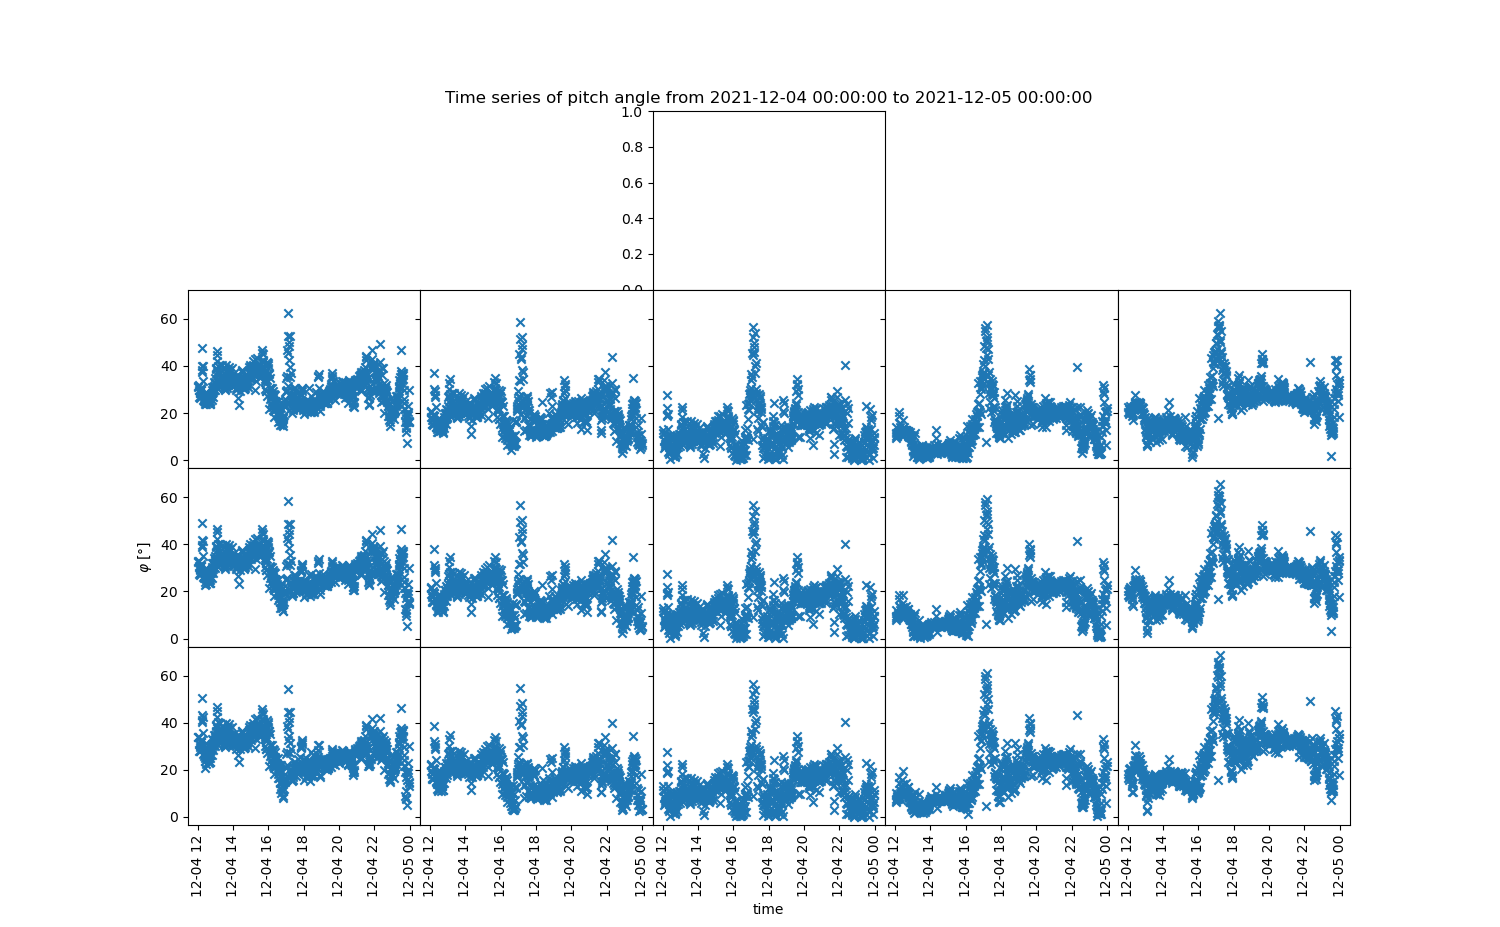
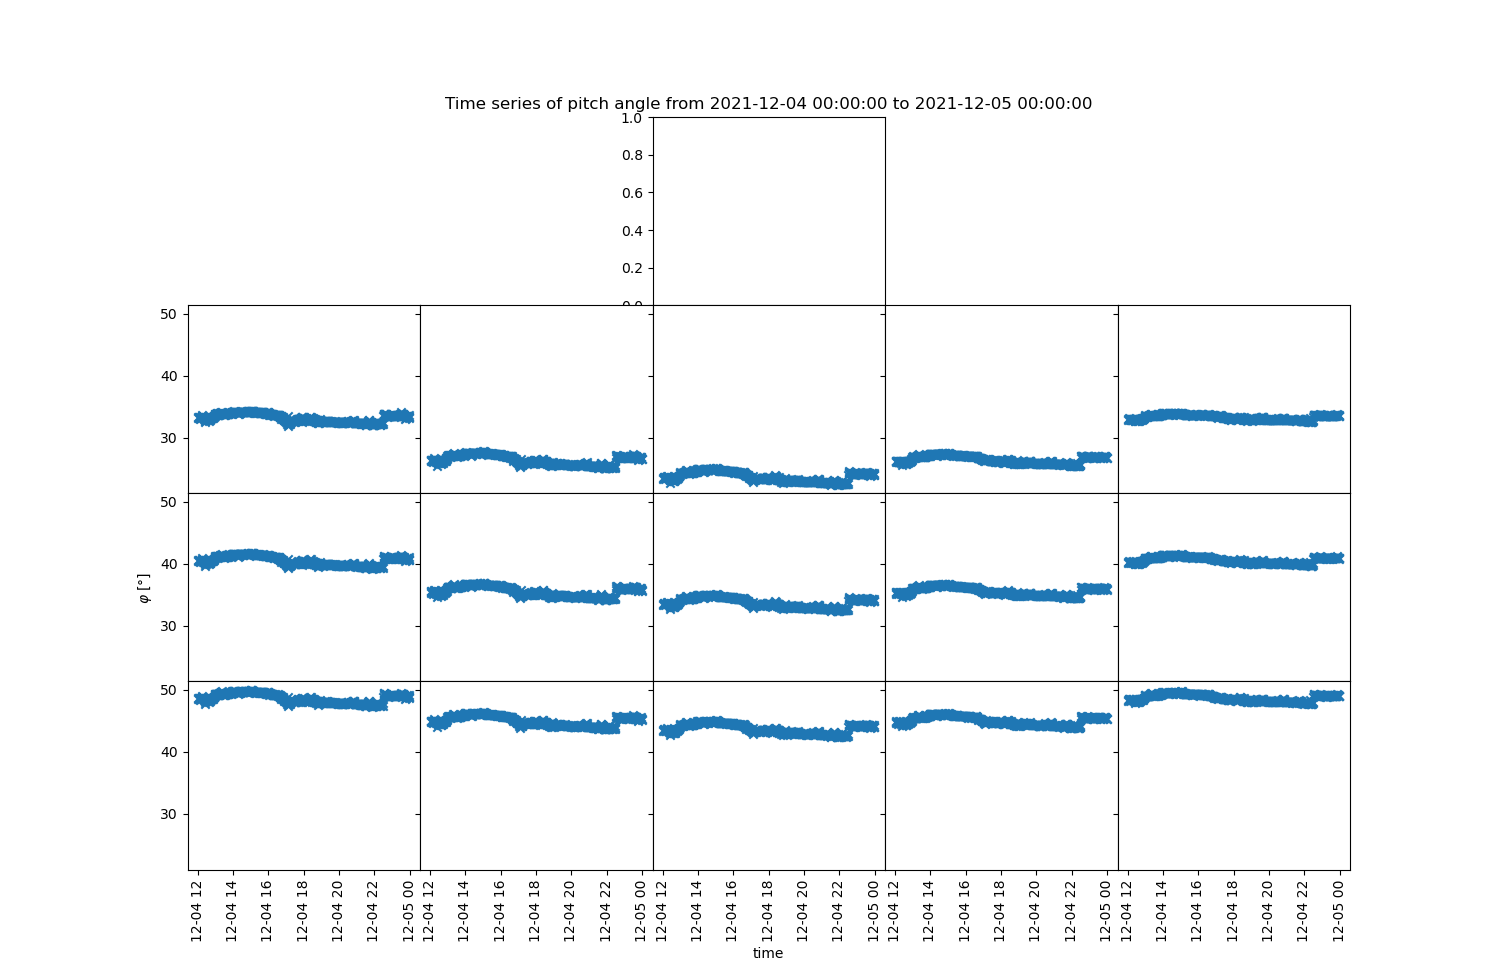
Viele neue Pitchwinkel

diff --git a/analyze_nom_II.py b/analyze_nom_II.py
@@ -8,6 +8,7 @@ import matplotlib.dates as mdates
 import load_nom_II as ld
 import plot_nom_II as pt
 import math
+import mag
 
 from PIL import Image
 import glob
@@ -31,7 +32,8 @@ hmap = mpl.cm.seismic
 class STEP:
     '''Lädt STEP-Daten zur anschließenden Analyse'''
 
-    def __init__(self,year,month,day,rpath = '/data/projects/solo/step_v0008/',lastofmonth=False):
+    def __init__(self,year,month,day,rpath = '/data/projects/solo/step_v0008/',rpath_mag = '/data/projects/solo/mag/l2_soar/rtn_1minute',lastofmonth=False):
+        '''Magnetfeld wird gleich mitgeladen.'''
         # Loading data
         if lastofmonth:
             if month!=12:
@@ -40,11 +42,20 @@ class STEP:
                 self.itime, self.idata = ld.load_nom(rpath=rpath,period=(dt.datetime(year,month,day),dt.datetime(year+1,1,1)), products=('M','A'))
         else:
             self.itime, self.idata = ld.load_nom(rpath=rpath,period=(dt.datetime(year,month,day),dt.datetime(year,month,day+1)), products=('M','A'))
-        print('Data loaded successfully.')
+        print('STEP-Data loaded successfully.')
         
         # Combining data (Main and Auxiliary Product)
         ld.combine_data(self.itime, self.idata)
-        print('Data combined successfully.')
+        print('STEP-Data combined successfully.')
+        
+        # Loading MAG-Data
+        if lastofmonth:
+            if month!=12:
+                self.mag = mag.MAGdata(path = rpath_mag, period = (dt.datetime(year,month,day),dt.datetime(year,month+1,1)))
+            else:
+                self.mag = mag.MAGdata(path = rpath_mag, period = (dt.datetime(year,month,day),dt.datetime(year+1,1,1)))
+        else:
+            self.mag = mag.MAGdata(path = rpath_mag, period=(dt.datetime(year,month,day),dt.datetime(year,month,day+1)))
 
     def cut_data(self,t0,t1):
         cdat = {}
@@ -579,7 +590,13 @@ class STEP:
             plt.close('all')
             
     def distribution_ring(self, filename, title, head, norm, period, box_list, norm_pixel, res = '1min', overflow = True, esquare = False,window_width = 5, close=False, sorted_by_energy=False):
-        '''Darstellung von means der einzelnen Pixel als GIF. Es soll die ringförmige Verteilung deutlich werden.'''
+        '''Darstellung von means der einzelnen Pixel und Pitchwinkel als GIF. Es soll die ringförmige Verteilung deutlich werden. Code basiert auf minütlichen Daten!!!'''
+        
+        # Berechnung der Energie-Mittelwerte und Mittelung der Pitchwinkel über Intervalle der Länge window_width
+        
+        # Maske, da ich nur die Magnetfelddaten innerhalb von period brauche:
+        mask = (self.mag.time >= period[0]) * (self.mag.time < period[1])
+        pw = [[] for i in range(15)]
         
         i = 0
         pixel_means = [[] for i in range(16)]     # Liste mit Listen der Mittelwerte der einzelnen Pixel. Die erste Liste enthält die Zeitstempel (jeweils Mitte der Zeitfenster)
@@ -590,11 +607,18 @@ class STEP:
         else:
             pldat = self.data_prep(ebins,res,head,period,norm,overflow,esquare)[0]
 
+
         while (period[0] + dt.timedelta(minutes=(i+1)*window_width)) <= period[1]:
+            
             pixel_means[0].append(period[0] + dt.timedelta(minutes=(i+0.5)*window_width))
             
-            # Berechnung der Mittelwerte:
             for k in [i for i in range(1,16)]:
+                # Mittelung der Pitchwinkel (k-1, da ich keine Zeit im array stehen habe)
+                pw_data = self.mag.pitchangles[k-1][mask]
+                new_pw = np.sum(pw_data[i*window_width:(i+1)*window_width])/window_width
+                pw[k-1].append(new_pw)
+                
+                # Berechnung der Energie-Mittelwerte:
                 pdat = pldat[k][i*window_width:(i+1)*window_width]
                 integral = np.sum(pdat,axis=0)
                 # calculating mean
@@ -615,15 +639,24 @@ class STEP:
         norm_factor = np.array(pixel_means[norm_pixel]) 
         vmin = 1.0
         vmax = 1.0
+        vmin_pw = 1.0
+        vmax_pw = 1.0
         for k in range(0,16):
             if k == 0:
                 pixel_means[k] = np.array(pixel_means[k])
             else:
                 pixel_means[k] = np.array(pixel_means[k])/norm_factor
+                pw[k-1] = np.array(pw[k-1])
                 if np.nanmax(pixel_means[k]) > vmax:
                     vmax = np.nanmax(pixel_means[k])
                 if np.nanmin(pixel_means[k]) < vmin:
                     vmin = np.nanmin(pixel_means[k])
+                if np.nanmax(pw[k-1]) > vmax_pw:
+                    vmax_pw = np.nanmax(pw[k-1])
+                if np.nanmin(pw[k-1]) < vmin_pw:
+                    vmin_pw = np.nanmin(pw[k-1])
+                    
+                    
         
         # Plotting
         x_corners = [0,1,2,3,4,5]
@@ -634,10 +667,17 @@ class STEP:
             c = [pixel_means[j][ind][k] for j in range(11,16)]        
             data_means = np.array([c,b,a])
             
-            fig, ax = plt.subplots(1,1,figsize=(8,7))
+            d = [pw[j-1][ind][k] for j in range(1,6)]
+            e = [pw[j-1][ind][k] for j in range(6,11)]
+            f = [pw[j-1][ind][k] for j in range(11,16)]  
+            pw_list = np.array([f,e,d])
             
+            
+            fig, axes = plt.subplots(2,1,figsize=(10,12))
+            
+            ax = axes[0]
             tmp = ax.pcolormesh(x_corners,y_corners,data_means,vmin=vmin,vmax=vmax)
-            plt.colorbar(tmp)
+            plt.colorbar(tmp,label=f'mean of energy/(mean of energy of pixel {norm_pixel})')
             ax.get_xaxis().set_visible(False)
             ax.get_yaxis().set_visible(False)
             
@@ -645,6 +685,16 @@ class STEP:
                 ax.set_title(title + f'\n(head {head}, {window_width} minute steps, normed to pixel {norm_pixel})\nfrom ' + str(period[0]) + ' to ' + str(period[1]) + f'\n Mean Energy of Pixel {norm_pixel}: ' + str(round(norm_factor[ind][k],2)) + ' [keV]')
             else:
                 ax.set_title(title + f'\n(head {head}, {window_width} minute steps, normed to pixel {norm_pixel})\nfrom ' + str(period[0]) + ' to ' + str(period[1]) + f'\n Time: ' + str(pixel_means[0][ind][k]))
+            
+            
+            ax = axes[1]
+            tmp = ax.pcolormesh(x_corners,y_corners,pw_list,vmin=vmin_pw,vmax=vmax_pw)
+            plt.colorbar(tmp,label=r'pitch angle $\varphi$ [°]')
+            ax.get_xaxis().set_visible(False)
+            ax.get_yaxis().set_visible(False)
+            ax.set_title(r'Corresponding pitch angles $\varphi$ for the pixels')
+    
+    
     
             # Quick and dirty führende Nullen für korrekte Sortierung
             if k < 10:
@@ -666,6 +716,8 @@ class STEP:
         # Save the png images into a GIF file that loops forever
         frames[0].save(f'gif/{filename}.gif', format='GIF', append_images=frames[1:], save_all=True, duration=500, loop=0)
         print('Created GIF successfully!')
+        
+        
         
     def wrapper_distribution_ring(self,filename,head,norm,period,box_list,norm_pixel,res = '1min', overflow = True, esquare = False,window_width = 5, close=True):
        self.distribution_ring(filename='pixel_sorted_energy_' + filename, title=f'Mean of energy sorted by energy of pixel {norm_pixel}', head=head, norm=norm, period=period, box_list=box_list, norm_pixel = norm_pixel, res = res, overflow = overflow, esquare = esquare, window_width = window_width, close=close, sorted_by_energy=True)

diff --git a/mag.py b/mag.py
@@ -26,6 +26,7 @@ class MAGdata(object):
         self.B_T = np.zeros((0))
         self.B_N = np.zeros((0))
         self.time = []
+        self.pitchangles = []
         # Blickrichtung der einzelnen Pixel (Phi, Theta):
         self.fov = np.array([[-25,24],[-25,12],[-25,0],[-25,-12],[-25,-24],[-35,24],[-35,12],[-35,0],[-35,-12],[-35,-24],[-45,24],[-45,12],[-45,0],[-45,-12],[-45,-24]])
         
@@ -83,29 +84,34 @@ class MAGdata(object):
         self.phi = np.arctan2(self.B_T,self.B_R)
         self.theta = np.arctan2(self.B_N,np.sqrt(self.B_T**2+self.B_R**2))
         
+    def pw(self,v_phi,v_theta):
+        '''Es ist wichtig die Normierung zu beachten. Wenn ich die RTN-Koordinaten über die Winkel beschreibe, kann ich die Vorfaktoren 1 setzen.
+        Numpy nimmt die Winkel in Radians. Muss den Spezialfall von Werten größer 1 im arccos abfangen Dieser Sonderfall ist hier erstmal ignoriert. 
+        Für das Magnetfeld, werden die Daten des Objekts genommen.
+        Der Winkel \phi gibt die Drehung in der RT-Ebene und \theta in der RN-Ebene.
+        Für die Umrechnung müsste mit v als Länge des Vektors gelten:
+            R = v*cos(phi)*cos(theta)
+            T = v*sin(phi)*cos(theta)
+            N = v*sin(theta)
+        Die Attribute phi und theta beziehen sich bei Lars auf das Magnetfeld.'''
+        v_theta = v_theta/360*2*np.pi
+        v_phi = v_phi/360*2*np.pi
+        B_theta = self.theta/360*2*np.pi
+        B_phi = self.phi/360*2*np.pi
+        argument = np.cos(v_theta)*np.cos(v_phi)*np.cos(B_theta)*np.cos(B_phi) + np.cos(v_theta)*np.sin(v_phi)*np.cos(B_theta)*np.sin(B_phi) + np.sin(v_theta)*np.sin(B_theta)
+        # if argument > 1.0 and v_theta == B_theta and v_phi == B_phi:
+        #     argument = 1.0
+        pitchangle = np.arccos(argument)/np.pi*180
+        return pitchangle
+        
     def _calc_pw(self):
         '''Berechne die Pitchwinkel für die Elektronen, welche auf STEP treffen in erster Näherung.
-        Dafür wird der Winkel zwischen den Blickrichtungen der Pixel und
-        dem Magnetfeld herangezogen.'''
-        # Lars hat etwas von Normierung geschrieben... Warum??? Müsste es nicht reichen die Winkel im Spacecraft-Frame zu nehmen???
-        # Nutze theta und phi für Kugelkoordinaten wie bei Wiki...
-        # Umrechnung in Grad nicht vergessen...
-        '''Der Winkel \phi gibt die Drehung in der RT-Ebene und \theta in der RN-Ebene. Für die Umrechnung müsste mit v als Länge des Vektors gelten:
-        R = v*cos(phi)*cos(theta)
-        T = v*sin(phi)*cos(theta)
-        N = v*sin(theta)'''
-        B_phi = self.phi
-        B_theta = self.theta
-        self.pw = []
-        
+        Dafür wird der Winkel zwischen den Blickrichtungen der Pixel und dem Magnetfeld herangezogen.'''
         for i in range(15):
-            v_theta = np.radians(self.fov[i][1])   # Umrechnung in radians für numpy
-            v_phi = np.radians(self.fov[i][0])
-            # Umrechnung in Grad ist zu bedenken
-            # self.pw.append((np.arccos(np.sin(v_theta)*np.cos(v_phi)*np.sin(B_theta)*np.cos(B_phi) + np.sin(v_theta)*np.sin(v_phi)*np.sin(B_theta)*np.sin(B_phi) + np.cos(v_theta)*np.cos(B_theta)))/np.pi*180)
-            # self.pw.append(())
-        
-        self.pw = np.array(self.pw)
+            v_phi = self.fov[i][0]
+            v_theta = self.fov[i][1]
+            self.pitchangles.append(self.pw(v_phi,v_theta))
+        self.pitchangles = np.array(self.pitchangles)
         
         
         
@@ -140,7 +146,7 @@ class MAGdata(object):
         fig, ax = self.step_plot(r'time', r'$\varphi$ [°]', 'Time series of pitch angle from ' + str(self.period[0]) + ' to ' + str(self.period[1]))
 
         for i in range(1,16):
-            ax[i].scatter(self.time,self.pw[i-1],marker='x')
+            ax[i].scatter(self.time,self.pitchangles[i-1],marker='x')
             ax[i].tick_params(axis='x', labelrotation=90)
         
         plt.show()

diff --git a/analyze_data.py b/analyze_data.py
@@ -7,7 +7,7 @@ import datetime as dt
 from analyze_nom_II import STEP
 
 # dat = STEP(2021,12,4,rpath='data/')
-dat = STEP(2021,12,4)
+# dat = STEP(2021,12,4)
 
 # box_list = [[[15,35],[30,38]],[[20,45],[25,30]],[[26,80],[20,25]],[[30,120],[15,20]],[[40,155],[10,15]],[[50,170],[3,10]]]
 # box_list_2 = [[[15,35],[30,35]],[[20,45],[25,30]],[[30,60],[20,25]],[[30,80],[15,20]],[[50,100],[10,15]],[[100,150],[3,10]]]
@@ -47,11 +47,51 @@ pixel_list = [i for i in range(1,16)] # [4,9,14]
 
 # Versuch Magnetfeld mit darzustellen und rauszurechnen...
 
-box_list = [[[15,35],[30,38]],[[20,45],[25,30]],[[26,80],[20,25]],[[30,120],[15,20]],[[40,155],[10,15]],[[50,170],[3,10]]]
-period = [dt.datetime(2021,12,4,13,30),dt.datetime(2021,12,4,16,30)]
+# dat = STEP(2021,12,4)
 
-dat.evolution_energy_means_ts(filename='21_12_04.png',head=-1,norm='tmax',save='etracks_test/',period=period,box_list=box_list,pixel_list = pixel_list,norm_pixel=3)
-dat.wrapper_distribution_ring('21_12_04_electrons', head=-1, norm='tmax', period=period, box_list=box_list, norm_pixel=3)
+# box_list = [[[15,35],[30,38]],[[20,45],[25,30]],[[26,80],[20,25]],[[30,120],[15,20]],[[40,155],[10,15]],[[50,170],[3,10]]]
+# period = [dt.datetime(2021,12,4,13,30),dt.datetime(2021,12,4,16,30)]
+
+# dat.evolution_energy_means_ts(filename='21_12_04.png',head=-1,norm='tmax',save='etracks_test/',period=period,box_list=box_list,pixel_list = pixel_list,norm_pixel=3)
+# dat.wrapper_distribution_ring('21_12_04_electrons', head=-1, norm='tmax', period=period, box_list=box_list, norm_pixel=3)
+
+
+dat = STEP(2022,11,19)
+
+box_list=[[[25,50],[28,35]],[[30,60],[23,28]],[[35,70],[18,23]],[[40,110],[12,18]],[[60,165],[2,12]]]
+period = [dt.datetime(2022,11,19,13,30),dt.datetime(2022,11,19,17,30)]
+
+dat.evolution_energy_means_ts(filename='22_11_19.png',head=-1,norm='tmax',save='etracks_test/',period=period,box_list=box_list,pixel_list = pixel_list,norm_pixel=3)
+dat.wrapper_distribution_ring('22_11_19_electrons', head=-1, norm='tmax', period=period, box_list=box_list, norm_pixel=3)
+
+
+# dat = STEP(2022,12,1)
+
+# box_list=[[[58,67],[35,40]],[[60,70],[32,35]],[[65,75],[28,32]],[[70,82],[23,28]],[[74,90],[18,23]],[[74,100],[14,18]],[[77,132],[2,14]]]
+# period = [dt.datetime(2022,12,1,6,30),dt.datetime(2022,12,1,9,30)]
+
+# dat.evolution_energy_means_ts(filename='22_12_01.png',head=-1,norm='tmax',save='etracks_test/',period=period,box_list=box_list,pixel_list = pixel_list,norm_pixel=3)
+# dat.wrapper_distribution_ring('22_12_01_electrons', head=-1, norm='tmax', period=period, box_list=box_list, norm_pixel=3)
+
+
+# dat = STEP(2022,12,12)
+
+# box_list=[[[25,50],[23,30]],[[30,70],[17,23]],[[40,80],[12,17]],[[50,85],[8,12]],[[60,90],[2,8]]]
+# period = [dt.datetime(2022,12,12,7,30),dt.datetime(2022,12,12,10)]
+        
+# dat.evolution_energy_means_ts(filename='22_12_12.png',head=-1,norm='tmax',save='etracks_test/',period=period,box_list=box_list,pixel_list = pixel_list,norm_pixel=3)
+# dat.wrapper_distribution_ring('22_12_12_electrons', head=-1, norm='tmax', period=period, box_list=box_list, norm_pixel=3)
+
+
+dat = STEP(2022,12,24)
+
+box_list=[[[20,35],[35,40]],[[25,40],[30,35]],[[28,50],[23,30]],[[33,58],[17,23]],[[40,64],[12,17]],[[45,75],[8,12]],[[50,80],[2,8]]]
+period = [dt.datetime(2022,12,24,4),dt.datetime(2022,12,24,6)]
+
+dat.evolution_energy_means_ts(filename='22_12_24.png',head=-1,norm='tmax',save='etracks_test/',period=period,box_list=box_list,pixel_list = pixel_list,norm_pixel=3)
+dat.wrapper_distribution_ring('22_12_24_electrons', head=-1, norm='tmax', period=period, box_list=box_list, norm_pixel=3)
+
+
 
 
 
